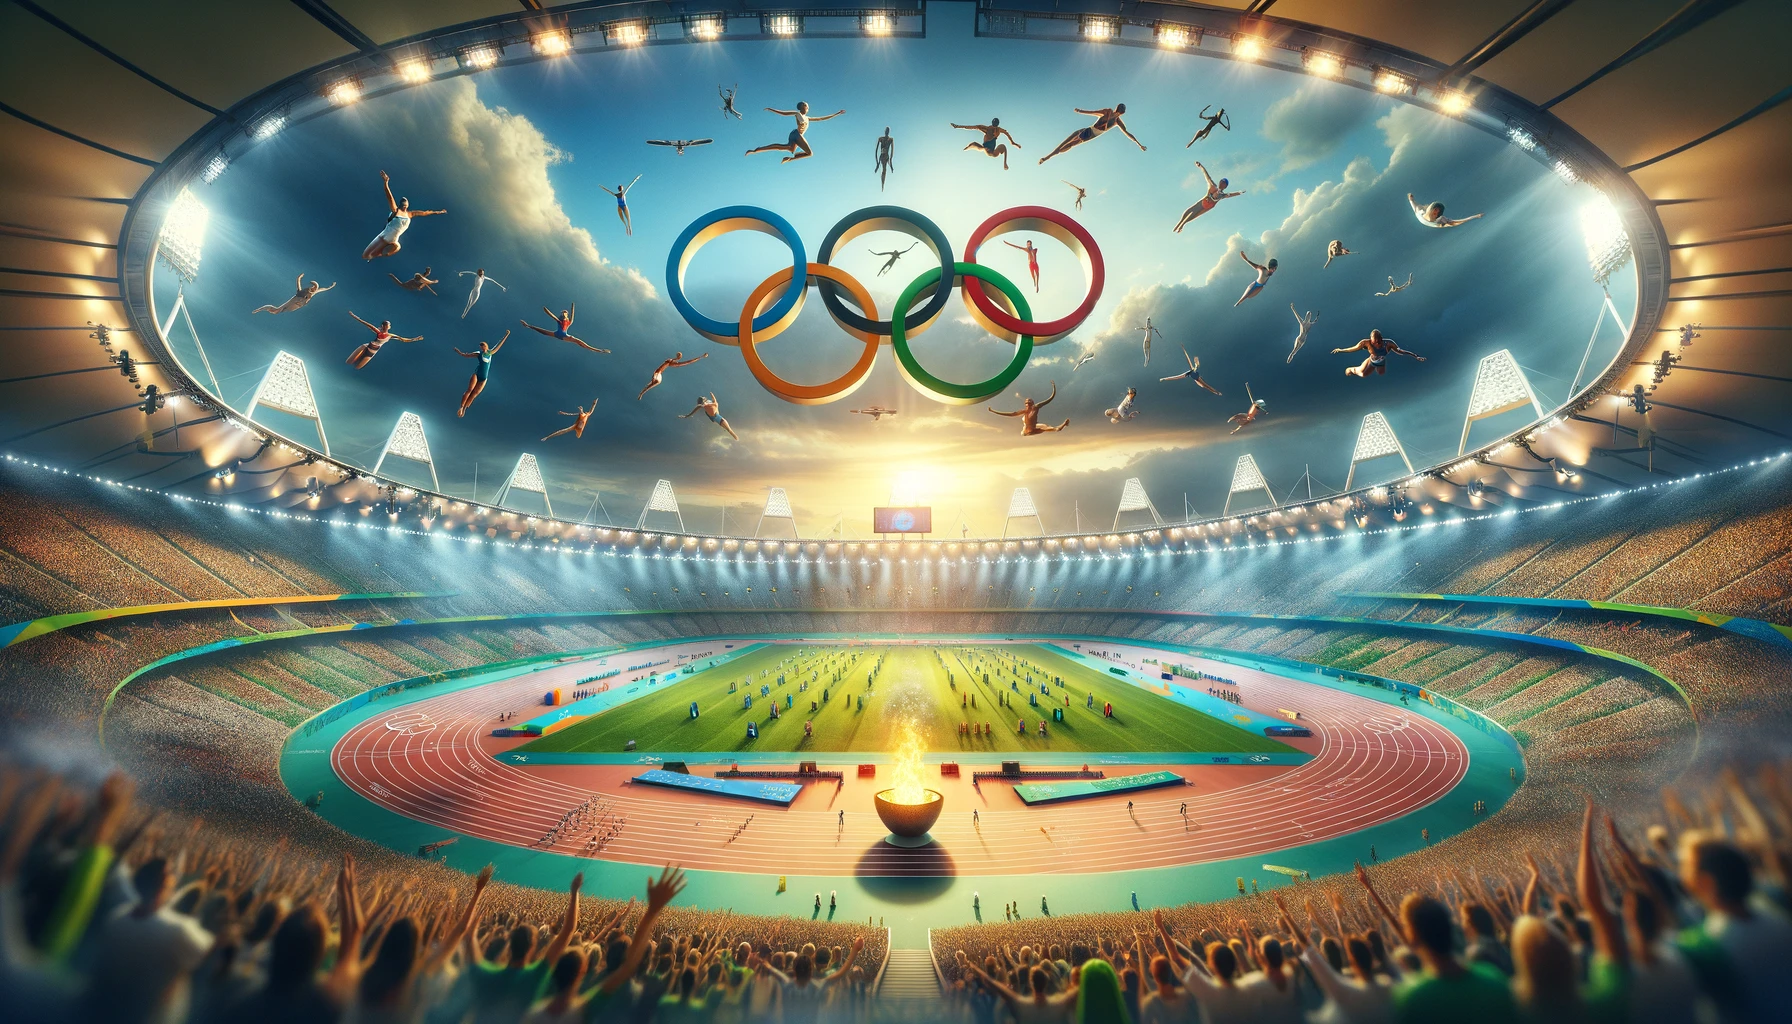
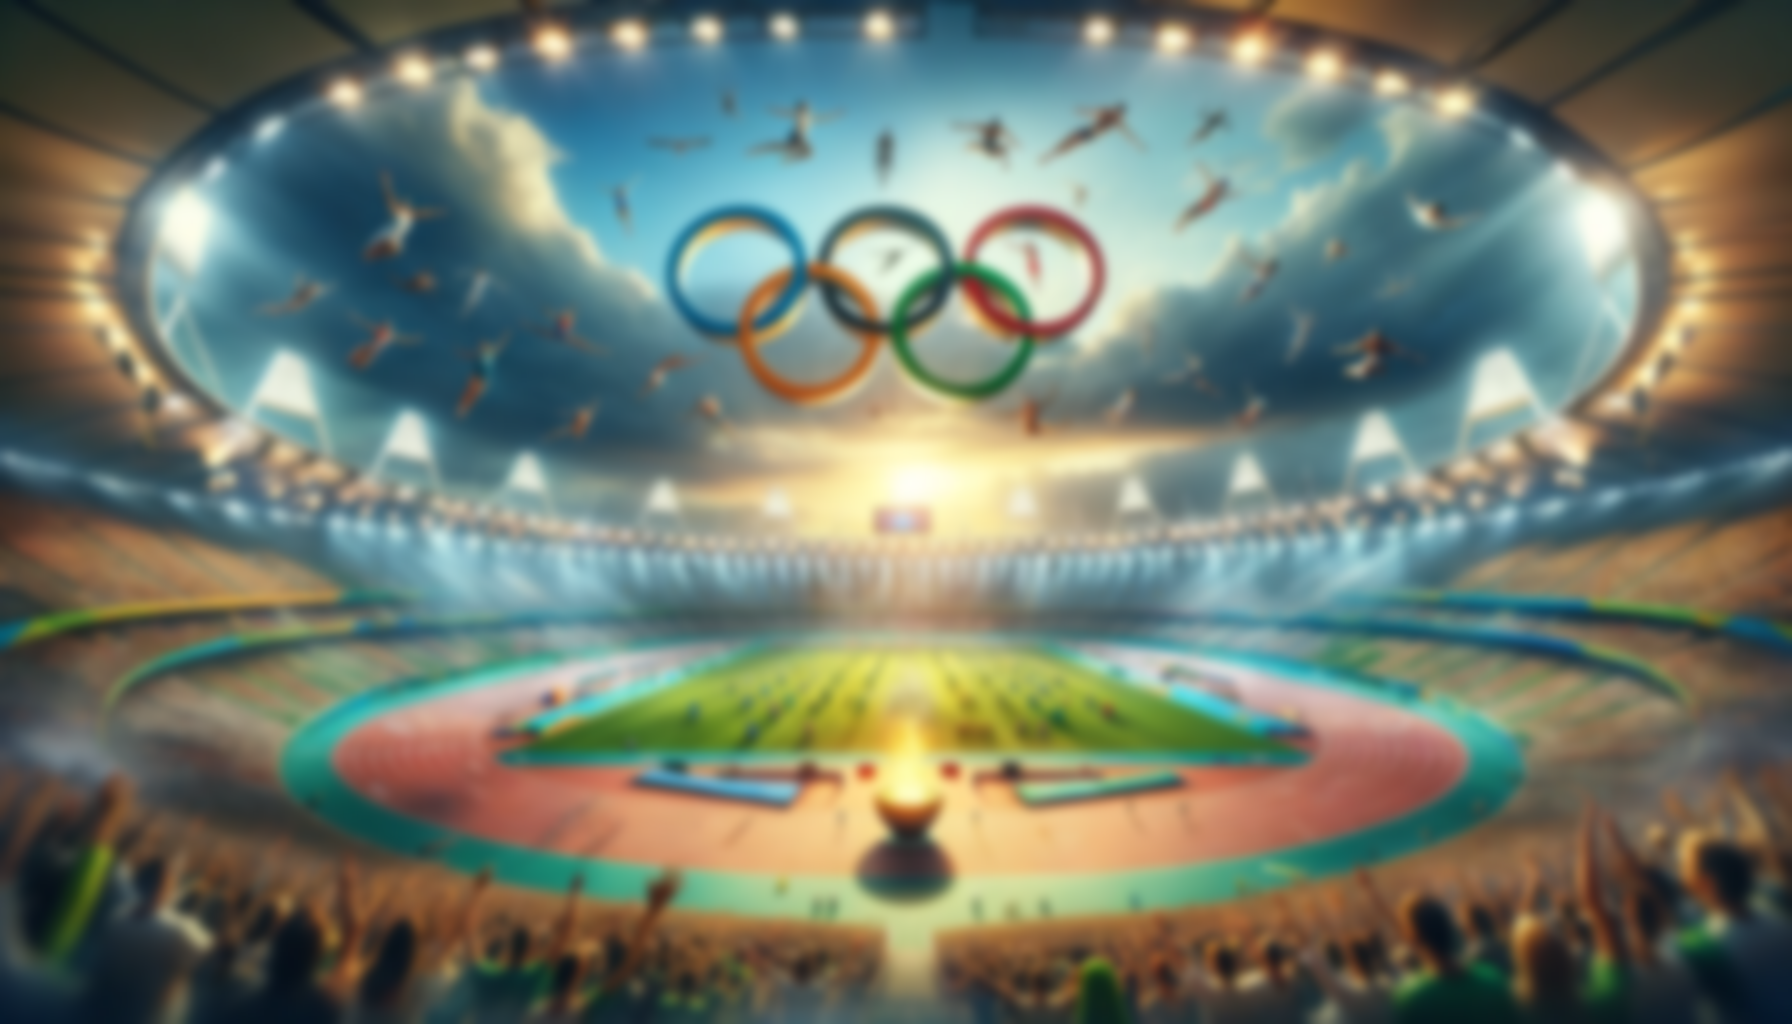
Finished Enhance Main Menu - Add new background blureed - Better button - Better text at the bottom

diff --git a/style/style.scss b/style/style.scss
@@ -1,22 +1,22 @@
 * {
-margin: 0;
-padding: 0;
-box-sizing: border-box;
-overflow: hidden;
+    margin: 0;
+    padding: 0;
+    box-sizing: border-box;
+    overflow: hidden;
 }
 
 body::before {
-content: "";
-position: absolute;
-top: 0;
-left: 0;
-width: 100%;
-height: 100%;
-background: url("../assets/img/background_main_menu.png") no-repeat center center;
-background-size: cover;
--webkit-backdrop-filter: blur(200px);
-backdrop-filter: blur(200px);
-z-index: 2;
+    content: "";
+    position: absolute;
+    top: 0;
+    left: 0;
+    width: 100%;
+    height: 100%;
+    background: url("../assets/img/background_main_menu.png") no-repeat center center;
+    background-size: cover;
+    -webkit-backdrop-filter: blur(300px);
+    backdrop-filter: blur(300px);
+    z-index: 2;
 }
 
 body {
@@ -46,7 +46,7 @@ canvas {
     }
 
 #mainMenuButton {
-    margin-top: 5%;
+    margin-top: 4%;
     display: flex;
     flex-direction: column;
     align-items: center;
@@ -54,12 +54,12 @@ canvas {
     width: 100%;
 
     button {
-        width: 30%;
-        height: 75px;
-        font-size: 1.5em;
+        width: 25%;
+        height: 70px;
+        font-size: 1.3em;
         margin: 20px 0;
         border: none;
-        background-color: #ffa600d5;
+        background: radial-gradient(circle, #ff8c00d7, #ffbe5ddc);
         color: #fff;
         text-shadow: 2px 2px 4px #000;
         cursor: pointer;
@@ -67,11 +67,11 @@ canvas {
         border-radius: 32px;
         outline: none;
         font-weight: bold;
-        letter-spacing: 1px;
-        border: 1px solid #ffa600ea;
+        letter-spacing: 2px;
+        border: 1px solid #fca80c;
 
         &:hover {
-            background-color: #ff8c00;
+            background: radial-gradient(circle, #ff8c00, #ffbe5d);
             transform: scale(1.05);
             box-shadow: 0 8px 25px rgba(0,0,0,0.4);
             outline: none;
@@ -93,8 +93,8 @@ canvas {
         display: inline-flex;
         justify-content: center;
         align-items: center;
-        width: 50px;
-        height: 50px;
+        width: 40px;
+        height: 40px;
         background-color: #eee;
         margin: 0 10px;
         border-radius: 50%;
@@ -122,7 +122,7 @@ canvas {
         align-items: center;
 
         p {
-            font-size: 1.2em;
+            font-size: 1em;
             color: #f1f1f1;
             font-weight: bold;
             text-shadow: 2px 2px 2px #000;

diff --git a/style/style.css b/style/style.css
@@ -14,8 +14,8 @@ body::before {
   height: 100%;
   background: url("../assets/img/background_main_menu.png") no-repeat center center;
   background-size: cover;
-  -webkit-backdrop-filter: blur(200px);
-  backdrop-filter: blur(200px);
+  -webkit-backdrop-filter: blur(300px);
+  backdrop-filter: blur(300px);
   z-index: 2;
 }
 
@@ -45,7 +45,7 @@ canvas {
   height: 35%;
 }
 #mainMenu #mainMenuButton {
-  margin-top: 5%;
+  margin-top: 4%;
   display: flex;
   flex-direction: column;
   align-items: center;
@@ -53,12 +53,12 @@ canvas {
   width: 100%;
 }
 #mainMenu #mainMenuButton button {
-  width: 30%;
-  height: 75px;
-  font-size: 1.5em;
+  width: 25%;
+  height: 70px;
+  font-size: 1.3em;
   margin: 20px 0;
   border: none;
-  background-color: rgba(255, 166, 0, 0.8352941176);
+  background: radial-gradient(circle, rgba(255, 140, 0, 0.8431372549), rgba(255, 190, 93, 0.862745098));
   color: #fff;
   text-shadow: 2px 2px 4px #000;
   cursor: pointer;
@@ -66,11 +66,11 @@ canvas {
   border-radius: 32px;
   outline: none;
   font-weight: bold;
-  letter-spacing: 1px;
-  border: 1px solid rgba(255, 166, 0, 0.9176470588);
+  letter-spacing: 2px;
+  border: 1px solid #fca80c;
 }
 #mainMenu #mainMenuButton button:hover {
-  background-color: #ff8c00;
+  background: radial-gradient(circle, #ff8c00, #ffbe5d);
   transform: scale(1.05);
   box-shadow: 0 8px 25px rgba(0, 0, 0, 0.4);
   outline: none;
@@ -89,8 +89,8 @@ canvas {
   display: inline-flex;
   justify-content: center;
   align-items: center;
-  width: 50px;
-  height: 50px;
+  width: 40px;
+  height: 40px;
   background-color: #eee;
   margin: 0 10px;
   border-radius: 50%;
@@ -116,7 +116,7 @@ canvas {
   align-items: center;
 }
 #mainMenu #factDiv p {
-  font-size: 1.2em;
+  font-size: 1em;
   color: #f1f1f1;
   font-weight: bold;
   text-shadow: 2px 2px 2px #000;
